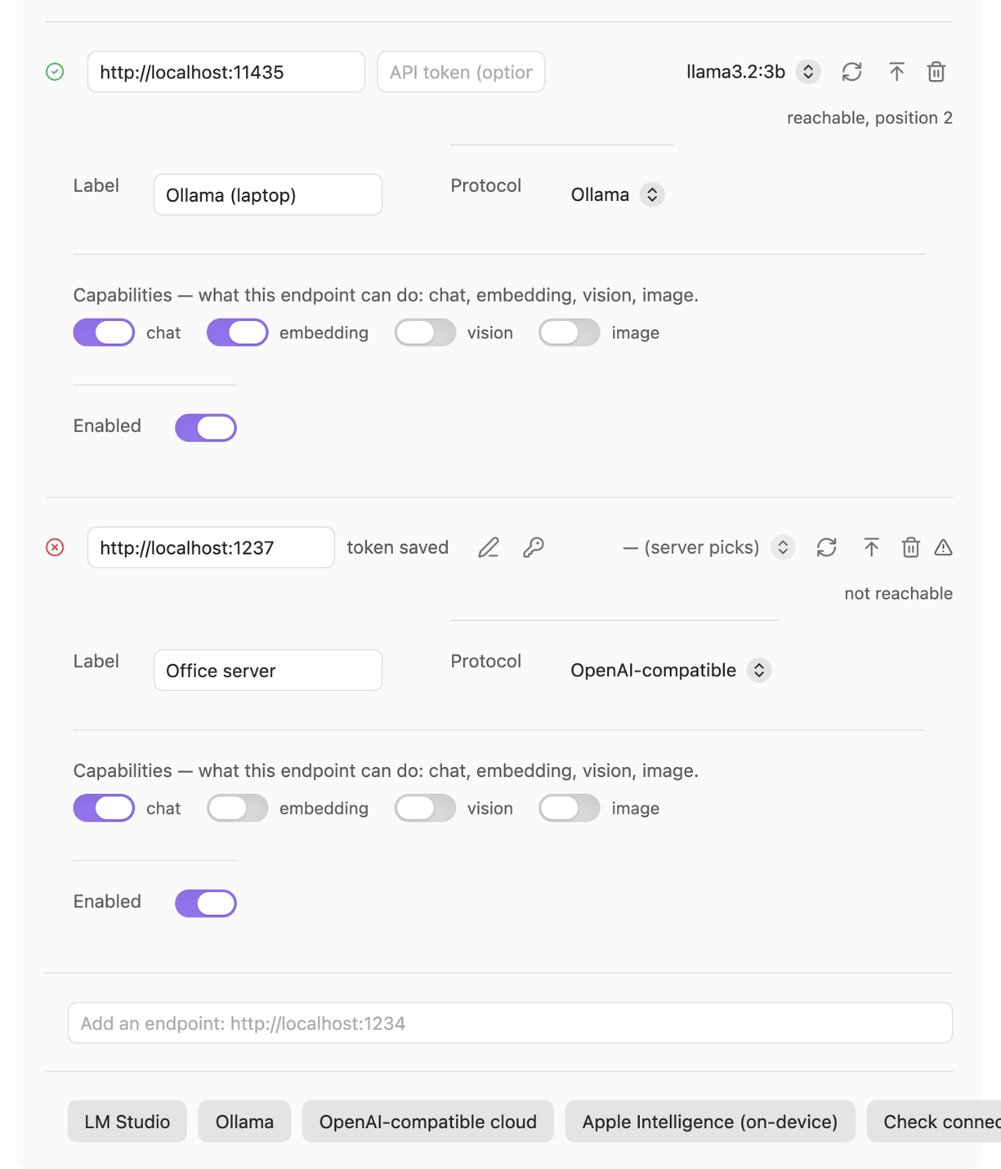
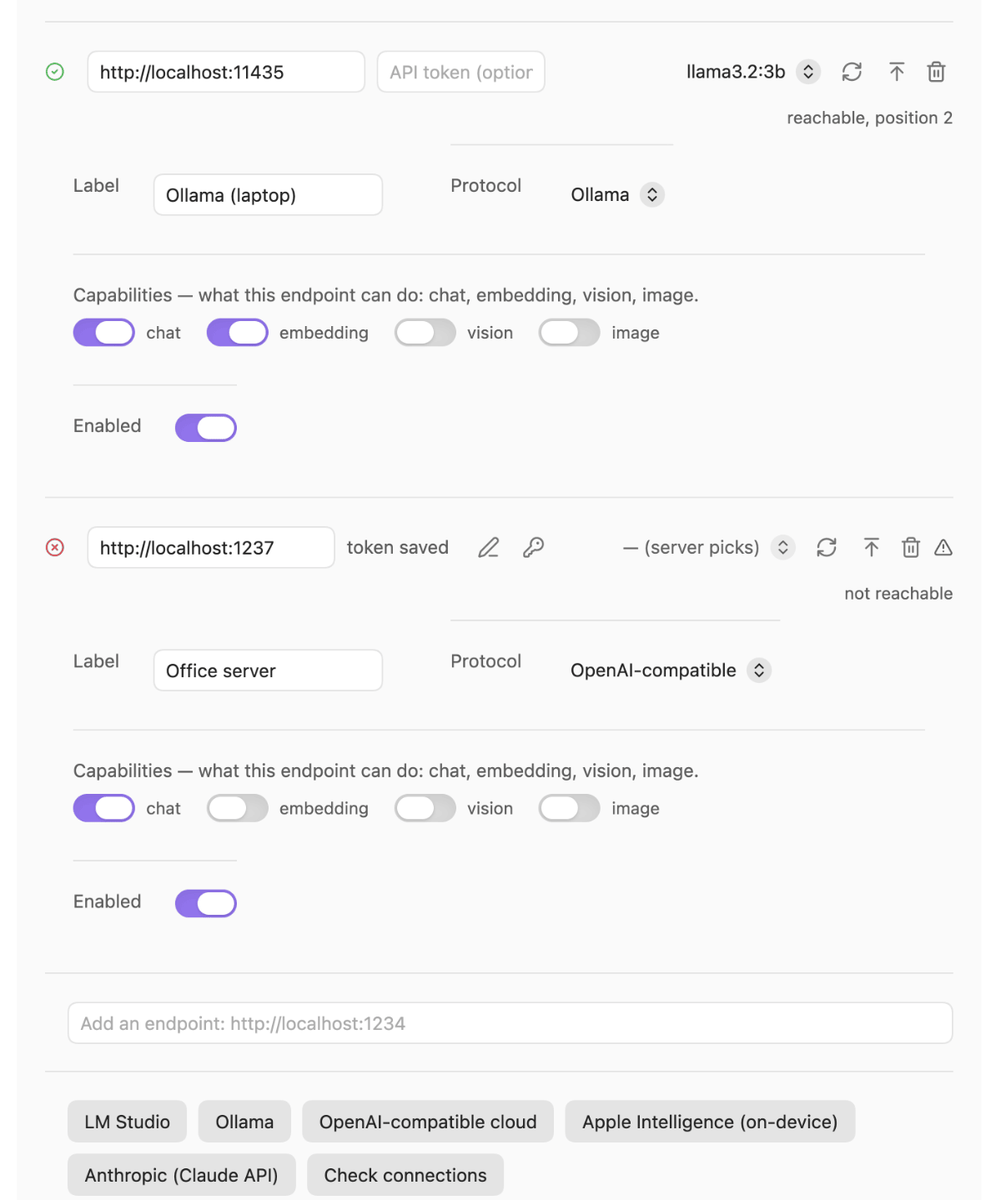
docs+test: Claude-API-Anleitung, README, Smoke I1-I3 gegen den Anthropic-Stub, endpoints.png neu
Gate 130/130, Smoke 21/21 (frischer Prozess, Lock auf :9513). Bild selbst angesehen: sechs Knöpfe in zwei Zeilen, nichts abgeschnitten.

diff --git a/scripts/gui-smoke.ts b/scripts/gui-smoke.ts
@@ -65,6 +65,9 @@ const PUNKTE = [
   "G1 Preset Apple Intelligence (on-device) → Zeile mit transport=shortcuts, Kurzbefehl-Name, KEIN HTTP-Ziel, Modellzeile apple-fm (displayFamily) und Modellblock aus Kit-Daten",
   "G2 Filter-Default: list() ohne transports-Opt-in zeigt apple-shortcuts NICHT, list({transports:[\"shortcuts\"]}) UND resolve() bleibt bei http; der Opt-in-Eintrag traegt displayFamily apple-fm",
   "H1 Verwaiste Schlüsselbund-Einträge: Zeile mit Zahl und Knopf „Clean up“, Bestätigung, danach Eintrag gelöscht und Zeile weg",
+  "I1 Preset Anthropic (Claude API) → Zeile mit provider/transport/backend anthropic, chat+vision, Hinweis zum Schlüssel sichtbar; die Knopfreihe der Vorlagen bricht um und liegt ganz im Fenster",
+  "I2 Claude-Endpunkt gegen den Anthropic-Stub: Schlüssel setzen → Status grün, Modelle aus /v1/models, Stub sah x-api-key und anthropic-version; list()/resolve() ohne Opt-in zeigen ihn nie, mit Opt-in ja",
+  "I3 Ungültiger Schlüssel → Status rot mit dem Text „Access denied — API key missing or invalid.“ (EN) bzw. dem deutschen Gegenstück",
 ] as const;
 const { record, abschluss } = createBilanz({ punkte: PUNKTE });
 
@@ -205,6 +208,7 @@ async function main(): Promise<void> {
 
   let fake: FakeServer | null = null;
   let fakeLm: FakeServer | null = null;
+  let claudeStub: LlmStub | null = null;
   let settings: SettingsStelle | null = null;
   const warnungen: string[] = [];
   // Zwei Zustandssorten ueberleben einen Ctrl-C mitten im Lauf, das `finally` unten nie: der
@@ -664,6 +668,119 @@ async function main(): Promise<void> {
       before !== null && before.visible && ["Clean up", "Aufräumen"].includes(before.button) && cleanClicked && stillThere && confirmClicked && gone !== null && after === null,
       JSON.stringify({ before, cleanClicked, stillThere, confirmClicked, gone: gone !== null, after }),
     );
+
+    // --- I1-I3: Claude API (Welle 23) -----------------------------------------------------
+    // Der LLM-Stub der Brücke im Anthropic-Modus stellt die Messages-API nach (strenge Pfade, Kopfzeilen, Schlüssel). Kein echter
+    // Aufruf an api.anthropic.com: Kosten und Schlüssel (Auftrag Welle 23).
+    console.log("\nI · Claude API");
+    await cdp.evaluate(`
+      const p = app.plugins.plugins[${q(PLUGIN_ID)}];
+      for (const e of p.settings.endpoints) if (e.secretId) app.secretStorage.setSecret(e.secretId, "");
+      p.settings.endpoints = [];
+      await p.saveSettings();
+      return true;
+    `);
+    settings = await reopenSettings(cdp, port, settings);
+    const claudePresetOk = await clickReal(settings.cdp, settings.el(
+      `Array.from(root.querySelectorAll("button")).find((b) => b.textContent.trim() === "Anthropic (Claude API)")`,
+    ));
+    const claudeRow = await pollUntil<{ ok: boolean }>(cdp, `
+      const p = app.plugins.plugins[${q(PLUGIN_ID)}];
+      return p.settings.endpoints.some((e) => e.provider === "anthropic") ? { ok: true } : null;
+    `, 8000, 300);
+    const claudeEp = await cdp.evaluate<{ id: string; url: string; provider: string; transport: string; backend: string; caps: string[] } | null>(`
+      const e = app.plugins.plugins[${q(PLUGIN_ID)}].settings.endpoints.find((x) => x.provider === "anthropic");
+      return e ? { id: e.id, url: e.url, provider: e.provider, transport: e.transport, backend: e.backend, caps: [...e.capabilities].sort() } : null;
+    `);
+    activeSecretId = claudeEp ? `${PLUGIN_ID}-${claudeEp.id}` : activeSecretId;
+    const claudeNote = await pollUntil<{ t: string }>(settings.cdp, `
+      const n = ${settings.el(`Array.from(root.querySelectorAll(".lem-row-note")).map((x) => x.textContent).find((t) => /Anthropic API key|Anthropic-API-Schlüssel/.test(t))`)};
+      return n ? { t: n } : null;
+    `, 8000, 300);
+    // Die Knopfreihe der Vorlagen bricht um und liegt ganz im Fenster (sechs Knöpfe; vorher war der letzte abgeschnitten).
+    const presetRow = await settings.cdp.evaluate<{ wrap: string; inside: boolean; buttons: number }>(`
+      const ctl = ${settings.el(`root.querySelector(".lem-presets .setting-item-control")`)};
+      if (!ctl) return { wrap: "(keine Reihe)", inside: false, buttons: 0 };
+      const box = ctl.getBoundingClientRect();
+      const btns = Array.from(ctl.querySelectorAll("button"));
+      return { wrap: getComputedStyle(ctl).flexWrap, inside: btns.every((b) => { const r = b.getBoundingClientRect(); return r.right <= box.right + 1 && r.left >= box.left - 1; }), buttons: btns.length };
+    `);
+    record(
+      "I1 Preset Anthropic (Claude API) → Zeile mit provider/transport/backend anthropic, chat+vision, Hinweis zum Schlüssel sichtbar; die Knopfreihe der Vorlagen bricht um und liegt ganz im Fenster",
+      claudePresetOk && claudeRow !== null && claudeEp?.url === "https://api.anthropic.com" && claudeEp.provider === "anthropic" && claudeEp.transport === "anthropic"
+        && claudeEp.backend === "anthropic" && JSON.stringify(claudeEp.caps) === JSON.stringify(["chat", "vision"]) && claudeNote !== null
+        && presetRow.wrap === "wrap" && presetRow.inside && presetRow.buttons === 6,
+      `Klick=${claudePresetOk}, Zeile=${JSON.stringify(claudeEp)}, Hinweis=${claudeNote !== null}, Knopfreihe=${JSON.stringify(presetRow)}`,
+    );
+    if (!claudeEp) throw new Error("I1 fehlgeschlagen — ohne Claude-Zeile sind I2/I3 gegenstandslos.");
+
+    claudeStub = await startLlmStub({ anbieter: "anthropic", schluessel: "sk-ant-smoke", models: ["claude-haiku-5-5", "claude-sonnet-5-5"] });
+    // Die Zeile zeigt auf den Stub (die Vorlage trägt den echten Host, der hier nie angefragt wird), Token über die Oberfläche.
+    await cdp.evaluate(`
+      const p = app.plugins.plugins[${q(PLUGIN_ID)}];
+      const e = p.settings.endpoints.find((x) => x.id === ${q(claudeEp.id)});
+      e.url = ${q(claudeStub.url)};
+      await p.saveSettings();
+      return true;
+    `);
+    settings = await reopenSettings(cdp, port, settings);
+    const claudeTyped = await settings.cdp.evaluate<{ ok: boolean }>(`
+      const pw = ${settings.el(`root.querySelector(".okit-ep-row input[type=password]")`)};
+      if (!pw) return { ok: false };
+      pw.focus();
+      pw.value = "sk-ant-smoke";
+      pw.dispatchEvent(new Event("input", { bubbles: true }));
+      pw.dispatchEvent(new Event("blur", { bubbles: true }));
+      return { ok: true };
+    `);
+    await pollUntil<{ ok: boolean }>(cdp, `
+      const e = app.plugins.plugins[${q(PLUGIN_ID)}].settings.endpoints.find((x) => x.id === ${q(claudeEp.id)});
+      return e && e.secretId ? { ok: true } : null;
+    `, 8000, 300);
+    settings = await reopenSettings(cdp, port, settings);
+    const statusOk = await pollUntil<{ cls: string }>(settings.cdp, `
+      const el = ${settings.el(`root.querySelector(".okit-ep-row .okit-ep-status")`)};
+      return el && (el.classList.contains("is-ok") || el.classList.contains("is-error")) ? { cls: el.classList.contains("is-ok") ? "is-ok" : "is-error" } : null;
+    `, 10000, 300);
+    const claudeApi = await cdp.evaluate<{ defaultIds: string[]; optIn: Array<{ id: string; provider: string; transport: string; backend: string }>; resolveDefault: string | null; resolveOptIn: string | null; models: unknown }>(`
+      const api = app.plugins.plugins[${q(PLUGIN_ID)}].api;
+      const rd = await api.resolve("chat");
+      const ro = await api.resolve("chat", { transports: ["http", "anthropic"] });
+      return {
+        defaultIds: api.list({ capability: "chat" }).map((e) => e.id),
+        optIn: api.list({ capability: "chat", transports: ["http", "anthropic"] }).map((e) => ({ id: e.id, provider: e.provider, transport: e.transport, backend: e.backend })),
+        resolveDefault: rd && rd.id ? rd.id : (rd && rd.error) ?? null,
+        resolveOptIn: ro && ro.id ? ro.id : (ro && ro.error) ?? null,
+        models: await api.models(${q(claudeEp.id)}, { force: true }),
+      };
+    `);
+    const modelsReq = claudeStub.letzte("models");
+    const claudeKopf = modelsReq ? { key: modelsReq.header["x-api-key"], version: modelsReq.header["anthropic-version"], auth: modelsReq.header["authorization"] ?? null } : null;
+    record(
+      "I2 Claude-Endpunkt gegen den Anthropic-Stub: Schlüssel setzen → Status grün, Modelle aus /v1/models, Stub sah x-api-key und anthropic-version; list()/resolve() ohne Opt-in zeigen ihn nie, mit Opt-in ja",
+      claudeTyped.ok && statusOk?.cls === "is-ok" && JSON.stringify(claudeApi.models) === JSON.stringify(["claude-haiku-5-5", "claude-sonnet-5-5"])
+        && claudeKopf?.key === "sk-ant-smoke" && claudeKopf.version === "2023-06-01" && claudeKopf.auth === null
+        && claudeApi.defaultIds.length === 0 && claudeApi.optIn.length === 1 && claudeApi.optIn[0]?.provider === "anthropic" && claudeApi.optIn[0].transport === "anthropic" && claudeApi.optIn[0].backend === "anthropic"
+        && claudeApi.resolveDefault === "no-endpoint" && claudeApi.resolveOptIn === claudeEp.id,
+      JSON.stringify({ status: statusOk?.cls, kopf: claudeKopf, api: claudeApi }),
+    );
+
+    // I3 — falscher Schlüssel: der Stub antwortet 401 authentication_error, die Zeile sagt es in Worten.
+    await cdp.evaluate(`
+      app.secretStorage.setSecret(${q(`${PLUGIN_ID}-${claudeEp.id}`)}, "falsch");
+      app.plugins.plugins[${q(PLUGIN_ID)}].handle.invalidateUrl(${q(claudeStub.url)});
+      return true;
+    `);
+    settings = await reopenSettings(cdp, port, settings);
+    const statusBad = await pollUntil<{ cls: string; tip: string }>(settings.cdp, `
+      const el = ${settings.el(`root.querySelector(".okit-ep-row .okit-ep-status")`)};
+      return el && el.classList.contains("is-error") ? { cls: "is-error", tip: el.getAttribute("aria-label") || "" } : null;
+    `, 10000, 300);
+    record(
+      "I3 Ungültiger Schlüssel → Status rot mit dem Text „Access denied — API key missing or invalid.“ (EN) bzw. dem deutschen Gegenstück",
+      statusBad !== null && ["Access denied — API key missing or invalid.", "Zugriff verweigert — Schlüssel fehlt oder ist ungültig."].includes(statusBad.tip),
+      JSON.stringify(statusBad),
+    );
   } finally {
     // B haengt seinen Fake-Endpunkt am Ende NICHT selbst aus — ohne diesen Schritt hinterlaesst
     // schon ein regulaer DURCHGELAUFENER Lauf einen Rest in settings.endpoints, den C2 des
@@ -673,6 +790,7 @@ async function main(): Promise<void> {
     if (settings) closeSettings(cdp, settings);
     if (fake) await fake.close().catch(() => undefined);
     if (fakeLm) await fakeLm.close().catch(() => undefined);
+    if (claudeStub) await claudeStub.stop().catch(() => undefined);
     cdp.close();
     // Auch nach einem Abbruch: Punkte, die nie aufgezeichnet wurden, zaehlen als „nichts gemessen“.
     abschluss();

diff --git a/scripts/shots.ts b/scripts/shots.ts
@@ -222,7 +222,7 @@ async function main(): Promise<void> {
     }
     if (want("endpoints")) {
       const box = await ausschnitt(settingsWin, {
-        scrollTo: "rowOf(1)", von: "rowOf(1)", bis: "[...document.querySelectorAll('button')].find((b) => b.textContent.trim() === 'Check connections')", ...(breite === undefined ? { width: 712 } : {}), padBottom: 20,
+        scrollTo: "rowOf(1)", von: "rowOf(1)", bis: "[...document.querySelectorAll('button')].find((b) => b.textContent.trim() === 'Check connections')", ...(breite === undefined ? { width: 712 } : {}), padBottom: 4,
       });
       await aufnehmen(settingsWin, breite === undefined ? "endpoints.png" : `endpoints-${breite}.png`, box, outDir);
     }

diff --git a/README.md b/README.md
@@ -20,9 +20,10 @@ If several plugins in your vault talk to language models, each one normally asks
 - **Live reachability** — every row shows a status indicator and, on hover, the reason (connection refused, host not found, timeout, "answers, but not like a model API", token rejected). "Check connections" re-tests all rows. A reachable row with a model also shows the model's context length ("Context: loaded N · max M tokens") when the server reports it.
 - **Model table** — per endpoint, every model the server reports plus the ones you already configured. Set a model's **family** (a suggestion is offered from the model name) and mark it as **another spelling of** a second model id, so plugins send the id you prefer.
 - **Backend detection** — "Detect" recognizes LM Studio, Ollama, Open WebUI or a plain OpenAI-compatible server with read-only requests; it never loads a model.
+- **Claude API (Anthropic)** — a preset adds the Claude API as an endpoint of its own kind. Your Anthropic key goes into the keychain, and the request goes from your device straight to Anthropic (the native Messages API, answers streamed, thinking shown as a summary). Plugins that know about Claude pick it up on their own; Koda can use it already, the others follow with their next update. See [Use the Claude API](https://github.com/johannes-kaindl/llm-endpoint-manager/blob/main/docs/claude-api.md).
 - **See who uses it** — the settings tab lists which plugins asked for an endpoint during the current session, and for which capability.
 
-<img src="https://raw.githubusercontent.com/johannes-kaindl/llm-endpoint-manager/main/docs/images/endpoints.png" width="820" alt="The lower endpoint list: an Ollama row that is reachable at position 2, an Office server row with a red indicator, a saved token and the label not reachable, then the add field and the preset buttons LM Studio, Ollama, OpenAI-compatible cloud and Check connections">
+<img src="https://raw.githubusercontent.com/johannes-kaindl/llm-endpoint-manager/main/docs/images/endpoints.png" width="820" alt="The lower endpoint list: an Ollama row that is reachable at position 2, an Office server row with a red indicator, a saved token and the label not reachable, then the add field and the preset buttons LM Studio, Ollama, OpenAI-compatible cloud, Apple Intelligence and Anthropic (Claude API), wrapped onto two lines, and Check connections">
 
 <img src="https://raw.githubusercontent.com/johannes-kaindl/llm-endpoint-manager/main/docs/images/models.png" width="820" alt="The Models group for an LM Studio endpoint: four models with family dropdowns, one suggested family, one model entered as another spelling of qwen/qwen3.8-27b, and the Backend row set to LM Studio with a Detect button">
 
@@ -56,7 +57,7 @@ cd llm-endpoint-manager && npm install && npm run build
 
 The plugin has no commands and no ribbon icon; everything happens in **Settings → LLM Endpoint Manager**.
 
-1. Under **Endpoints**, type an address into the field **Add an endpoint: http://localhost:1234** and click out of the field (rows are saved when a field loses focus) — or click a one-click preset button (**LM Studio**, **Ollama**, **OpenAI-compatible cloud**).
+1. Under **Endpoints**, type an address into the field **Add an endpoint: http://localhost:1234** and click out of the field (rows are saved when a field loses focus) — or click a one-click preset button (**LM Studio**, **Ollama**, **OpenAI-compatible cloud**, **Apple Intelligence (on-device)**, **Anthropic (Claude API)**).
 2. Check the row's **Protocol** and **Capabilities**. A row without a capability is invisible to every plugin and shows a warning.
 3. Optional: paste an **API token (optional)** into the row. It goes into the keychain; the row then shows **token saved**.
 4. Read the status indicator on the row: **active** means this is the endpoint a plugin asking for chat gets right now (the first enabled, reachable one with a usable token), **reachable, position 2** means a better one comes first. Use **Use first** to change the order.
@@ -68,7 +69,7 @@ The plugin has no commands and no ribbon icon; everything happens in **Settings 
 |---|---|---|
 | Address | Base URL of the server. A trailing `/v1` is stripped automatically. | — |
 | Label | Name shown in this tab and to other plugins. | derived from the address |
-| Protocol | Wire format: OpenAI-compatible, Ollama, Automatic1111 (image), ComfyUI (image). | OpenAI-compatible |
+| Protocol | Wire format: OpenAI-compatible, Ollama, Automatic1111 (image), ComfyUI (image), Apple Intelligence (on-device), Anthropic (Claude API). | OpenAI-compatible |
 | Capabilities | `chat`, `embedding`, `vision`, `image` — what the endpoint can do. | `chat` (presets set more) |
 | Enabled | Disabled endpoints are never handed to a plugin. | on |
 | API token | Stored in the Obsidian keychain, never in `data.json`. | none |
@@ -93,9 +94,10 @@ Other plugins reach this plugin's API at `app.plugins.plugins["llm-endpoint-mana
 
 The contract is vendored into `src/vendor/kit/endpoint-source.ts` (from `obsidian-kit`'s `endpoint-source` module, re-exported unchanged by `src/core/api-types.ts`) — see that file for the full `LlmEndpointManagerApi` interface (`version`, `list`, `get`, `resolve`, `materialize`, `models`, `importEndpoints`, `on`), the `ApiEndpoint`/`ResolvedEndpoint`/`ImportResult` shapes and the `ApiErrorCode` union. It also exports `LLM_ENDPOINT_MANAGER_PLUGIN_ID` (`"llm-endpoint-manager"`), the id this plugin registers itself under in `app.plugins.plugins[...]`.
 
-- `Provider` is `"openai" | "ollama" | "a1111" | "comfy"`, `Capability` is `"chat" | "embedding" | "vision" | "image"`.
+- `Provider` is `"openai" | "ollama" | "a1111" | "comfy" | "apple-shortcuts" | "anthropic"`, `EndpointTransport` is `"http" | "shortcuts" | "anthropic"`, `Capability` is `"chat" | "embedding" | "vision" | "image"`.
 - **Errors are values, not exceptions.** Every method that can fail returns `ApiError` instead of throwing — callers check `"error" in result` rather than wrapping every call in `try/catch`.
 - `list`/`get` return a snapshot for display; they never carry a token.
+- **Endpoints with another wire format are opt-in.** `list()` and `resolve()` return `http` endpoints only, unless the caller names more in `transports` (`list({ transports: ["http", "anthropic"] })`, `resolve("chat", { transports: ["http", "anthropic"] })`). A plugin that does not ask never sees the Claude endpoint, so an older plugin cannot be handed an endpoint it cannot speak to (in a test, such a plugin either crashed or sent an OpenAI-style request to Anthropic). `materialize(id)` hands out any endpoint the caller names. An Apple shortcut endpoint is never chosen by `resolve()`, with or without opt-in. An older manager ignores the `transports` field of `resolve()`.
 - `resolve(capability)` finds the first enabled, reachable endpoint offering that capability (in configured order) and returns it materialized — the fastest way for a caller that just wants "something that can do `chat`".
 - `materialize(id)` resolves one specific endpoint the caller already knows about (e.g. one the user picked explicitly).
 - `models(id)` lists the models a specific endpoint currently reports (cached until the endpoint changes or `force: true` is passed — the list does not expire on its own; `resolve()`/ `materialize()` use a separate 30 s reachability cache, so twelve plugins asking about the same server don't send twelve requests).

diff --git a/README.de.md b/README.de.md
@@ -20,9 +20,10 @@ Sprechen mehrere Plugins in deinem Vault mit Sprachmodellen, fragt normalerweise
 - **Erreichbarkeit live** — jede Zeile zeigt einen Status-Indikator und beim Darüberfahren den Grund (Verbindung abgelehnt, Host nicht gefunden, Zeitüberschreitung, „antwortet, aber nicht wie eine Modell-API", Token abgelehnt). „Verbindungen prüfen“ testet alle Zeilen neu. Eine erreichbare Zeile mit Modell zeigt außerdem die Kontextlänge des Modells („Kontext: geladen N · max M Token“), wenn der Server sie nennt.
 - **Modelltabelle** — je Endpunkt jedes Modell, das der Server meldet, plus die bereits konfigurierten. Setze die **Familie** eines Modells (aus dem Namen wird ein Vorschlag gemacht) und markiere es als **andere Schreibweise** einer zweiten Modell-ID, damit Plugins die ID senden, die du willst.
 - **Backend-Erkennung** — „Erkennen“ erkennt LM Studio, Ollama, Open WebUI oder einen schlichten OpenAI-kompatiblen Server mit rein lesenden Anfragen; es lädt nie ein Modell.
+- **Claude API (Anthropic)** — ein Preset legt die Claude API als eigenen Endpunkt-Typ an. Dein Anthropic-Schlüssel kommt in den Schlüsselbund, die Anfrage geht direkt von deinem Gerät an Anthropic (die native Messages-API, Antwort im Strom, Denken als Zusammenfassung). Plugins, die Claude kennen, nehmen sie von selbst; Koda kann sie schon nutzen, die übrigen folgen mit ihrem nächsten Update. Siehe [Use the Claude API](https://github.com/johannes-kaindl/llm-endpoint-manager/blob/main/docs/claude-api.md).
 - **Sehen, wer ihn nutzt** — der Einstellungs-Tab listet, welche Plugins in dieser Sitzung nach einem Endpunkt gefragt haben und für welche Fähigkeit.
 
-<img src="https://raw.githubusercontent.com/johannes-kaindl/llm-endpoint-manager/main/docs/images/endpoints.png" width="820" alt="Die untere Endpunkt-Liste: eine Ollama-Zeile, erreichbar auf Platz 2, eine Zeile Office server mit rotem Indikator, gespeichertem Token und dem Vermerk nicht erreichbar, darunter Hinzufüge-Feld und Preset-Knöpfe LM Studio, Ollama, OpenAI-compatible cloud und Check connections">
+<img src="https://raw.githubusercontent.com/johannes-kaindl/llm-endpoint-manager/main/docs/images/endpoints.png" width="820" alt="Die untere Endpunkt-Liste: eine Ollama-Zeile, erreichbar auf Platz 2, eine Zeile Office server mit rotem Indikator, gespeichertem Token und dem Vermerk nicht erreichbar, darunter Hinzufüge-Feld und Preset-Knöpfe LM Studio, Ollama, OpenAI-compatible cloud, Apple Intelligence und Anthropic (Claude API), auf zwei Zeilen umgebrochen, und Check connections">
 
 <img src="https://raw.githubusercontent.com/johannes-kaindl/llm-endpoint-manager/main/docs/images/models.png" width="820" alt="Die Gruppe Models für einen LM-Studio-Endpunkt: vier Modelle mit Familien-Auswahl, ein Familien-Vorschlag, ein Modell als andere Schreibweise von qwen/qwen3.8-27b und die Backend-Zeile LM Studio mit Detect-Knopf">
 
@@ -56,7 +57,7 @@ cd llm-endpoint-manager && npm install && npm run build
 
 Das Plugin hat weder Befehle noch ein Ribbon-Icon; alles passiert unter **Einstellungen → LLM Endpoint Manager**.
 
-1. Unter **Endpunkte** eine Adresse in das Feld **Endpunkt hinzufügen: http://localhost:1234** tippen und aus dem Feld herausklicken (Zeilen werden gespeichert, sobald ein Feld den Fokus verliert) — oder einen Preset-Knopf klicken (**LM Studio**, **Ollama**, **OpenAI-compatible cloud**).
+1. Unter **Endpunkte** eine Adresse in das Feld **Endpunkt hinzufügen: http://localhost:1234** tippen und aus dem Feld herausklicken (Zeilen werden gespeichert, sobald ein Feld den Fokus verliert) — oder einen Preset-Knopf klicken (**LM Studio**, **Ollama**, **OpenAI-compatible cloud**, **Apple Intelligence (auf dem Gerät)**, **Anthropic (Claude API)**).
 2. **Protokoll** und **Fähigkeiten** der Zeile prüfen. Eine Zeile ohne Fähigkeit ist für jedes Plugin unsichtbar und zeigt eine Warnung.
 3. Optional: ein **API-Token (optional)** in die Zeile einfügen. Es geht in den Schlüsselbund; die Zeile zeigt dann **Token gespeichert**.
 4. Den Status-Indikator lesen: **erreichbar, Platz 1** heißt, das ist die erste Wahl für ein Plugin (bei der Fähigkeit, die es anfragt); **erreichbar, Platz 2** heißt, ein besserer steht davor. Mit **Zuerst verwenden** änderst du die Reihenfolge.
@@ -68,7 +69,7 @@ Das Plugin hat weder Befehle noch ein Ribbon-Icon; alles passiert unter **Einste
 |---|---|---|
 | Adresse | Basis-URL des Servers. Ein abschließendes `/v1` wird automatisch entfernt. | — |
 | Bezeichnung | Name in diesem Tab und für andere Plugins. | aus der Adresse abgeleitet |
-| Protokoll | Wire-Format: OpenAI-kompatibel, Ollama, Automatic1111 (Bild), ComfyUI (Bild). | OpenAI-kompatibel |
+| Protokoll | Wire-Format: OpenAI-kompatibel, Ollama, Automatic1111 (Bild), ComfyUI (Bild), Apple Intelligence (auf dem Gerät), Anthropic (Claude API). | OpenAI-kompatibel |
 | Fähigkeiten | `chat`, `embedding`, `vision`, `image` — wozu der Endpunkt taugt. | `chat` (Presets setzen mehr) |
 | Aktiv | Deaktivierte Endpunkte bekommt nie ein Plugin. | an |
 | API-Token | Im Obsidian-Schlüsselbund, nie in `data.json`. | keins |

diff --git a/AGENTS.md b/AGENTS.md
@@ -6,7 +6,7 @@ Workspace-weite Standards (comply-or-explain): siehe [`../../workspace/_docs/CON
 
 **Profil:** `ts-node` · `obsidian-plugin`.
 
-**Stand 2026-10-14: 0.7.0 (Sampling-Profile-Modelltabelle seit 0.2.0); Plan 2 seit 0.1.0 released.** Alle 13 Tasks aus Plan 2 umgesetzt: Kern-Datenmodell,
+**Stand 2026-10-16: 0.8.0 released, Claude-API-Anbieter (Welle 23) in Arbeit für 0.9.0 (Sampling-Profile-Modelltabelle seit 0.2.0); Plan 2 seit 0.1.0 released.** Alle 13 Tasks aus Plan 2 umgesetzt: Kern-Datenmodell,
 Plugin-API v1 (`createManagerApi`, „Fehler sind Werte"), HTTP-Probe, Settings-Tab (Endpunkt-Liste,
 Protokoll/Fähigkeiten/Aktiv-Schalter), i18n, Schlüsselbund-Verdrahtung (`obsidianSecretStore`),
 GUI-Smoke 9/9. Vendoring auf obsidian-kit 0.36.1 + code-kit 0.6.0, `npm run gate` grün. Tag + Forgejo-Release
@@ -67,6 +67,10 @@ tests/vendor/kit/     vendorter Obsidian-Mock (obsidian-mock.ts)
   verbatim-Snapshots sind, nicht Verantwortung dieses Repos.
 
 ## Gotchas
+
+- **Der Anbieter `anthropic` ist hinter dem Transport-Opt-in versteckt, und das ist der Schutz für ältere Plugins.** `ManagedEndpoint.transport` ist für `provider: "anthropic"` immer `"anthropic"` (`normalizeEndpointEntry`, `withProvider`), `list()` ohne `transports` und `resolve()` ohne `transports` liefern nur `http` (`autoResolvable` in `src/core/reachability.ts`). Gemessen mit einem Plugin auf Kit 0.60.1 (json-editor, Wegwerf-Klon): bekäme es den Endpunkt mit `backend: "anthropic"`, stürzte `complete()` ab (`BACKENDS[backend].fields` undefiniert), ohne `backend` ginge eine OpenAI-Anfrage mit `temperature` an Anthropic. Mit dem fertigen Manager sieht es ihn nie (Variante A: nur Claude → `no-endpoint`, Variante B: Claude vor LM Studio → LM Studio). Wer einen weiteren Anbieter mit eigener Wire-Form baut, nimmt denselben Weg (eigener Transport-Wert), nicht nur einen neuen `provider`.
+- **Anthropic fragt anders:** die Probe (`probeHeaders` in `src/obsidian/http.ts`) sendet `x-api-key` und `anthropic-version` statt `Authorization: Bearer`, und `GET /v1/models?limit=1000` (ohne `limit` kommen nur 20 Modelle). Der Browser-Header `anthropic-dangerous-direct-browser-access` gehört nicht hierher, sondern in den Transport der Plugins (obsidian-kit `anthropic-transport`): `requestUrl` läuft im Hauptprozess. CORS gemessen am 2026-10-16 (Master, ohne Schlüssel, kostenlos): `OPTIONS /v1/messages` und `/v1/models` mit `Origin: app://obsidian.md` antworten 200 mit `access-control-allow-origin: *` und `access-control-allow-headers: x-api-key,anthropic-version,anthropic-dangerous-direct-browser-access,content-type`. Ob die echte Anfrage mit Schlüssel durchgeht, misst der eine Lauf mit `claude-haiku-5-5` in der Modell-Runde.
+- **Die Knopfreihe der Vorlagen bricht um** (`.lem-presets` in `styles.css`, die Klasse setzt `renderEndpoints` auf die letzte Zeile, die der Kit-Editor anlegt): mit sechs Knöpfen war der letzte im 1000-px-Fenster abgeschnitten. Der Smoke-Punkt I1 prüft `flex-wrap` und dass alle Knöpfe im Fenster liegen.
 
 - **Ein `api.on("changed")`-Listener abonniert einmal, nicht bei jedem Neuzeichnen.** `notifyChanged` iteriert über eine Kopie der Listener (seit 0.8.0); vorher lief ein Listener, der beim Melden neu abonnierte (Unsubscribe plus `on`), in eine Endlosschleife (Renderer 108 % CPU, Smoke-Timeout, Welle 22). Der Settings-Tab abonniert deshalb in `watchChanges()` nur, wenn noch kein Abo steht; eigene Speicherungen des Tabs laufen über `own()`, damit sie ihn nicht neu zeichnen.
 

diff --git a/CHANGELOG.md b/CHANGELOG.md
@@ -8,11 +8,14 @@ All notable changes to this project are documented here. The format follows
 
 ### Added
 
+- New preset **Anthropic (Claude API)**: adds the Claude API as an endpoint of its own kind (protocol "Anthropic (Claude API)", chat and vision). Your Anthropic key goes into the keychain and is only ever sent to Anthropic, directly from your device; the connection check asks `GET /v1/models` with `x-api-key` and `anthropic-version`. Plugins that know about Claude (Koda now, the others with their next update) list the endpoint in their own endpoint choice; a plugin that does not never sees it, so an older plugin cannot be handed an endpoint it cannot speak to. New how-to: `docs/claude-api.md`.
+- API: `resolve(capability, { caller?, transports? })` takes the same opt-in as `list()`. Without it only `http` endpoints are chosen; `"anthropic"` has to be named, and an Apple shortcut endpoint is still never chosen by `resolve()`. An older caller that does not send the field gets the old behavior.
 - Settings, keychain section: tokens in the keychain that belong to no endpoint (left over after an endpoint was removed while the plugin was off, or after a reset of the settings file) are counted, and a "Clean up" button removes them after a confirmation. Nothing is removed automatically, because another device with a settings file that has not synced yet may still need them.
 
 ### Changed
 
-- Kit pins raised to `obsidian-kit` 0.61.0 and `code-kit` 0.28.0 (from 0.60.1 and 0.27.1). Of the skipped releases (obsidian-kit 0.60.2, 0.60.3, 0.61.0; code-kit 0.27.2, 0.28.0) two things reach this plugin visibly: the family list of a model row now includes "Claude", and the backend row now knows "Anthropic" (both come from the sampling table, which gained the Claude family and the Anthropic backend). Everything else is internal: the Gemma 4 thinking channel and the streaming answer area are not used here, the keychain adapter without typed access (`secret-store-loose`) is not vendored, and the endpoint list, status texts and the settings walker behave as before.
+- Settings, endpoint list: the row of preset buttons wraps onto a second line instead of being cut off at the right edge (it had six buttons with the Claude preset, and the last one, "Check connections", was already clipped in a 1000 px window).
+- Kit pins raised to `obsidian-kit` 0.62.0 and `code-kit` 0.28.1 (from 0.60.1 and 0.27.1). Of the skipped releases (obsidian-kit 0.60.2, 0.60.3, 0.61.0, 0.61.1; code-kit 0.27.2, 0.28.0) the visible effects are the Claude family in the family list of a model row and "Anthropic" in the backend row (new sampling table entries). Everything else is internal: the Gemma 4 thinking channel and the streaming answer area are not used here, the keychain adapter without typed access (`secret-store-loose`) is not vendored, and the endpoint list, status texts and the settings walker behave as before.
 
 ## [0.8.0] — 2026-10-14
 

diff --git a/docs/images/README.md b/docs/images/README.md
@@ -13,7 +13,7 @@ The plugin has no view of its own, so every image shows its settings tab. Since 
 | Datei | Klasse | referenziert von | muss zeigen |
 | --- | --- | --- | --- |
 | `hero.png` | hero | README (oben) | The whole settings window: the sidebar entry **LLM Endpoint Manager** selected, the **Help** row on top ("Open documentation" and the bug icon), the group **Endpoints** with the first two rows — **LM Studio (desktop)** at "active" and **Ollama (laptop)** at "reachable, position 2", each with its green status indicator, protocol, capability toggles and **Enabled** switch. Must explain without a caption that this is one list of endpoints for other plugins. |
-| `endpoints.png` | feature | README § Features | The lower half of the endpoint list with **two rows of different role**: a reachable one ("reachable, position 2") and an unreachable one (red indicator, "not reachable", "token saved" with the change/remove icons, the warning icon), plus the add field and the preset buttons **LM Studio**, **Ollama**, **OpenAI-compatible cloud** and **Check connections**. The claim: reachability and order are two different things, and tokens show as "saved", never as a value. |
+| `endpoints.png` | feature | README § Features | The lower half of the endpoint list with **two rows of different role**: a reachable one ("reachable, position 2") and an unreachable one (red indicator, "not reachable", "token saved" with the change/remove icons, the warning icon), plus the add field and the preset buttons **LM Studio**, **Ollama**, **OpenAI-compatible cloud**, **Apple Intelligence (on-device)** and **Anthropic (Claude API)** (wrapped onto a second line, nothing cut off) and **Check connections**. The claim: reachability and order are two different things, and tokens show as "saved", never as a value. |
 | `models.png` | feature | README § Features | The **Models** group for one endpoint: model rows with a set **Family** ("Qwen 3.8"), a suggested one ("Suggested: Qwen 3.8", "Suggested: Gemma 4"), one row filled in **Other spelling of** (`qwen/qwen3.8-27b@4bit` → `qwen/qwen3.8-27b`) and the **Backend** row with **Detect**. |
 | `consumers.png` | feature | README § Features | The groups **API tokens** (keychain status text) and **Plugins using these endpoints** with two calling plugins, each with a capability and a time. The claim: you can see which plugin asked for what. |
 

diff --git a/docs/claude-api.md b/docs/claude-api.md
@@ -1,0 +1,25 @@
+# Use the Claude API
+
+This how-to adds Anthropic's Claude API as an endpoint, so plugins that know about Claude can use it. It needs an Anthropic API key (from the Anthropic Console); using the API is billed by Anthropic, not by this plugin.
+
+## 1. Add the endpoint
+
+Open **Settings → LLM Endpoint Manager**. Under **Endpoints**, click the preset button **Anthropic (Claude API)**. A row appears with the address `https://api.anthropic.com`, the protocol **Anthropic (Claude API)** and the capabilities **chat** and **vision** (Claude can read images; it has no embeddings and does not generate images).
+
+## 2. Store your key
+
+Paste your Anthropic API key into the field **API token (optional)** on the row. It goes into Obsidian's keychain, never into your notes or the plugin's `data.json`, and the row then reads **token saved**. The key is only ever sent to Anthropic, directly from your device.
+
+## 3. Check the connection
+
+Hover the status indicator on the row, or click **Check connections**. A green indicator means Anthropic answered with a model list; the **Models** group then lists the Claude models your key can use. A red indicator reads **Access denied — API key missing or invalid.** when the key is wrong.
+
+## 4. Which plugins use it
+
+A plugin that supports Claude lists the endpoint in its own endpoint choice and sends its requests to Anthropic's native API. **Koda can use it already; the other plugins follow with their next update.** A plugin that does not know about Claude never sees the endpoint, so adding it cannot break an older plugin.
+
+## What to expect
+
+- Claude's thinking is shown as a short summary. The depth of thinking follows each plugin's own setting (it is sent as Anthropic's `effort`).
+- Fixed values some plugins set for a request, such as `temperature: 0`, are not sent to current Claude models, because the API refuses them. The plugin's request view lists what was left out.
+- Older Claude models (Sonnet 4.5, Haiku 4.5) take neither the effort setting nor adaptive thinking; the plugins ask Anthropic which model takes what and leave the rest out.

diff --git a/docs/troubleshooting.md b/docs/troubleshooting.md
@@ -101,3 +101,20 @@ On a phone, `localhost` is the phone itself. Use your computer's network address
 ## Getting help
 
 Open an issue on GitHub: <https://github.com/johannes-kaindl/llm-endpoint-manager/issues>. Include your Obsidian version, the exact message and the protocol of the endpoint — never your token.
+
+## The Claude API (Anthropic) endpoint
+
+See [Use the Claude API](claude-api.md) for the setup.
+
+### "Access denied — API key missing or invalid."
+
+**Cause:** Anthropic rejected the key (it is missing, mistyped, revoked, or from another organization).
+
+**What to do:** Click the key icon on the row, paste the key again from the Anthropic Console and click **Check connections**. The key is checked with a read-only request for the model list; no model is run and nothing is billed.
+
+### The Claude endpoint is green, but a plugin does not offer it
+
+**Cause:** The plugin does not know about Claude yet. A plugin asks the manager for Claude explicitly; one that does not never sees the endpoint.
+
+**What to do:** Update the plugin. Koda can use the endpoint already; the other plugins follow with their next update.
+

diff --git a/docs/README.md b/docs/README.md
@@ -10,6 +10,7 @@ Organised after [Diátaxis](https://diataxis.fr/); only the parts that have cont
 |---|---|
 | **[Getting started](getting-started.md)** | Learning-oriented. Add an endpoint, store a token, see which plugin uses it. |
 | **[Set up the Apple shortcut](apple-shortcut.md)** | Task-oriented. Add the on-device endpoint and match it to a Shortcuts shortcut. |
+| **[Use the Claude API](claude-api.md)** | Task-oriented. Add the Anthropic endpoint, store your key, see which plugins can use it. |
 | **[Troubleshooting](troubleshooting.md)** | Task-oriented. Symptom → cause → what to do. |
 | **[API for plugin authors](https://github.com/johannes-kaindl/llm-endpoint-manager/blob/main/README.md#api)** | Reference. The `resolve`/`materialize`/`models` calls and the security boundary, in the README. |
 | **[Apple shortcuts for Obsidian plugins](https://uplink.jkaindl.de/apple-shortcuts)** | Explanation. Why the bridge exists, the shortcuts themselves, and its limits — shared across all plugins that use it. |

diff --git a/docs/getting-started.md b/docs/getting-started.md
@@ -10,7 +10,7 @@ The plugin adds no command and no ribbon icon. Everything is in its settings tab
 
 ## 2. Add your first endpoint
 
-Open **Settings → LLM Endpoint Manager**. Under **Endpoints** you see the **LLM endpoints** list and, below it, three preset buttons: **LM Studio**, **Ollama** and **OpenAI-compatible cloud**.
+Open **Settings → LLM Endpoint Manager**. Under **Endpoints** you see the **LLM endpoints** list and, below it, preset buttons: **LM Studio**, **Ollama**, **OpenAI-compatible cloud**, **Apple Intelligence (on-device)** and **Anthropic (Claude API)**.
 
 Click **LM Studio** (or **Ollama**, if that is what you run). A row appears with the address `http://localhost:1234` (Ollama: `http://localhost:11434`), the protocol and the capabilities the preset sets.
 
